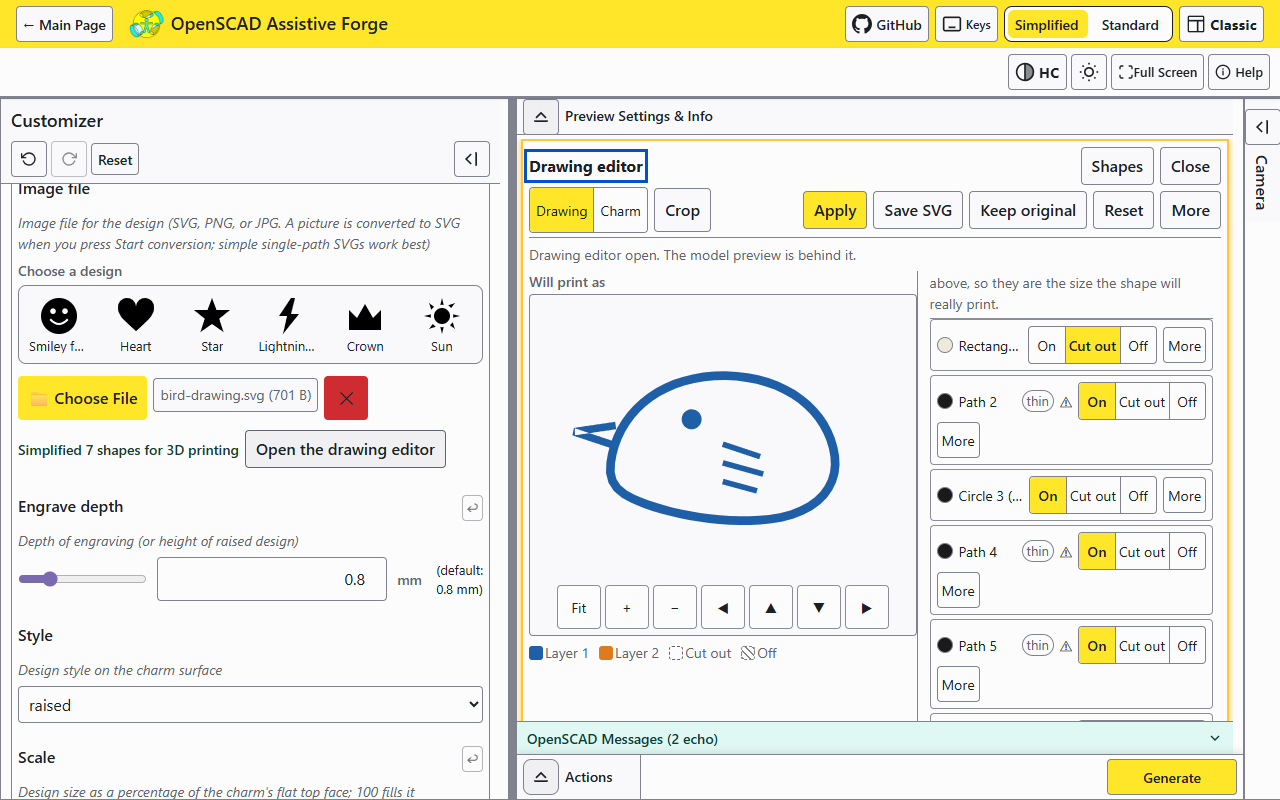
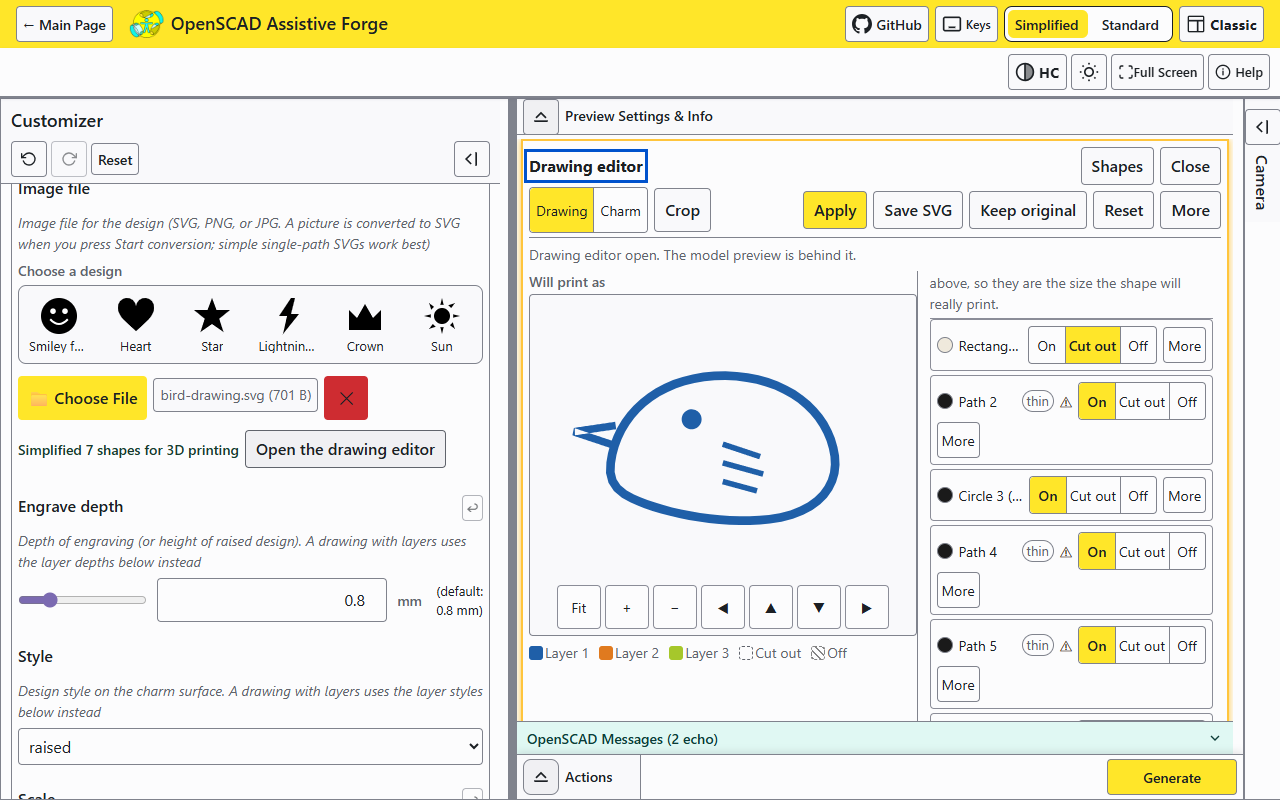
docs(journal): the editor picture retaken on the DP-58 tree, three layers in the legend
The alt text names the three layers (row 50 of the text pack, for the
owner's read).

Claude-Session: https://claude.ai/code/session_01PSr1JsdhTWc6LeprsnVUN4

diff --git a/docs/updates/WHATS_NEW_v5.md b/docs/updates/WHATS_NEW_v5.md
@@ -105,7 +105,7 @@ particular step that used to dominate everything was replaced: a
 drawing that took nineteen seconds to come back now takes about one
 and a half.
 
-![The drawing editor over the charm preview: a bird line drawing in deep blue, the color of layer 1, fills the left side under the heading "Will print as", with Fit, plus and minus buttons, four arrow buttons that move the view, and a color key reading Layer 1, Layer 2, Cut out and Off beneath it. The toolbar holds a Drawing / Charm switch with Drawing chosen, then Crop, Apply, Save SVG, Keep original, Reset and More. On the right, a Shapes panel lists the shapes: each row has the shape's name, an On / Cut out / Off switch with one choice highlighted and a More button, and four of the rows carry a small mark reading thin beside the name](images/drawing-editor.png)
+![The drawing editor over the charm preview: a bird line drawing in deep blue, the color of layer 1, fills the left side under the heading "Will print as", with Fit, plus and minus buttons, four arrow buttons that move the view, and a color key reading Layer 1, Layer 2, Layer 3, Cut out and Off beneath it. The toolbar holds a Drawing / Charm switch with Drawing chosen, then Crop, Apply, Save SVG, Keep original, Reset and More. On the right, a Shapes panel lists the shapes: each row has the shape's name, an On / Cut out / Off switch with one choice highlighted and a More button, and four of the rows carry a small mark reading thin beside the name](images/drawing-editor.png)
 
 The editor itself got the change I care most about: it is **one
 picture** now. The drawing you are editing fills the space, and
